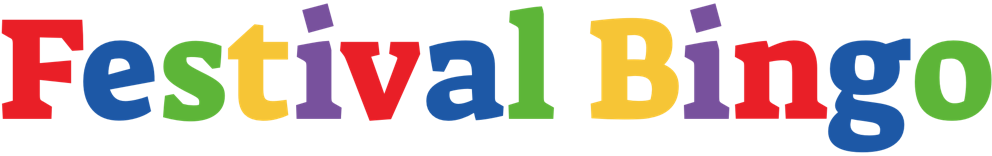
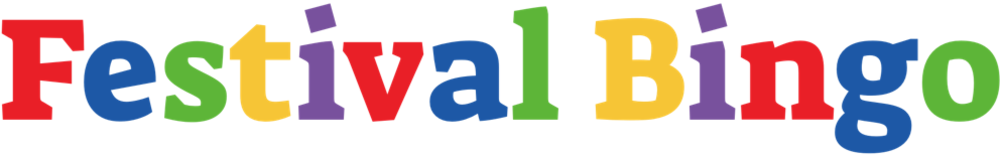
Resized headers and added progression dialog

diff --git a/src/components/bingo/BingoProgressDialog.vue b/src/components/bingo/BingoProgressDialog.vue
@@ -1,0 +1,47 @@
+<template>
+    <BaseModal :font="getTheme.fontFamily" :show="open" @close="handleClose">
+        <template v-slot:header>
+            <div class="w-80 flex justify-between">
+                <h2 class="w-[300px]">Behaalde Resultaten</h2>
+                <button @click="handleClose">
+                    <i class="fas fa-xmark"></i>
+                </button>
+            </div>
+        </template>
+        <template v-slot:body>
+            <h3>Voortgang</h3>
+            <div class="w-full bg-gray-200 rounded-full h-2.5">
+                <div class="h-2.5 rounded-full" :style="{ background: getTheme.colors[0], width: `${progress.percentage}%` } "></div>
+            </div>
+            <p>{{ progress.checked }} / {{ progress.total }} afgevinkt</p>
+        </template>
+    </BaseModal>
+</template>
+
+<script setup lang="ts">
+import { storeToRefs } from 'pinia';
+import { computed } from 'vue';
+import { useBingoCardsStore } from '../../stores/useBingoCardStore';
+import { useSettingsStore } from '../../stores/useSettingsStore';
+import BaseModal from '../modals/BaseModal.vue';
+defineProps<{ open: boolean }>()
+
+
+const emit = defineEmits(['close'])
+const { getTheme } = storeToRefs(useSettingsStore());
+const { getCards } = storeToRefs(useBingoCardsStore());
+
+const progress = computed(() => {
+    const numberChecked = getCards.value.filter(card => card.checked === true).length
+    const total = getCards.value.length
+    return {
+        checked: numberChecked,
+        total: total,
+        percentage: numberChecked / total * 100
+    }
+})
+
+const handleClose = () => {
+    emit('close');
+}
+</script>

diff --git a/src/components/bingo/BingoGame.vue b/src/components/bingo/BingoGame.vue
@@ -10,6 +10,9 @@
           <Dropdown :items="inputOptions" :selectedItem="selectedInput" :onOptionClicked="handleInputSelect"/>
         </div>
         <div class="flex">
+          <button class="border-2 bg-white px-2 py-1 w-9 h-9 rounded-lg" @click="isProgressModalOpen = true">
+            <i class="fas fa-trophy"></i>
+          </button>
           <button class="border-2 bg-white px-2 py-1 w-9 h-9 rounded-lg" @click="isSharingModalOpen = true">
             <i class="fas fa-share-nodes"></i>
           </button>
@@ -33,6 +36,11 @@
         :card="selectedCard!"
         @close="isOptionModalOpen = false"
       ></BingoOptionDialog>
+      <BingoProgressDialog
+        :open="isProgressModalOpen" 
+        :card="selectedCard!"
+        @close="isProgressModalOpen = false"
+      ></BingoProgressDialog>
       <BingoSharingDialog
         :open="isSharingModalOpen"
         @close="isSharingModalOpen = false"
@@ -55,11 +63,13 @@
   import { storeToRefs } from 'pinia';
   import Dropdown from '../dropdown/Dropdown.vue';
   import { useSettingsStore } from '../../stores/useSettingsStore';
+import BingoProgressDialog from './BingoProgressDialog.vue';
 
   const { getCards } = storeToRefs(useBingoCardsStore());
   const { getGrid } = storeToRefs(useSettingsStore());
   const selectedCard = ref<BingoCard | null>(null);
   const isOptionModalOpen = ref(false);
+  const isProgressModalOpen = ref(false);
   const isSharingModalOpen = ref(false);
   const isSettingsModalOpen = ref(false);
 

diff --git a/src/App.vue b/src/App.vue
@@ -3,8 +3,8 @@
     <component :is="getTheme.background" class="w-[80vw] h-[80%]"></component>
   </div>
   <div class="relative" :style="{ fontFamily: getTheme.fontFamily }">
-    <header class="p-2 flex justify-center">
-        <img class="max-h-24 md:max-h-32 lg:max-h-40" alt="header-image" :src="getTheme.header"/>
+    <header class="p-2 h-24 md:h-32 lg:h-52 container mx-auto flex justify-center">
+        <img class="max-h-24 md:max-h-32 lg:max-h-52" alt="header-image" :src="getTheme.header"/>
     </header>
     <BingoGame/>
   </div>

diff --git a/src/main.ts b/src/main.ts
@@ -21,6 +21,7 @@ import {
     fa2,
     fa3,
     fa4,
+    faTrophy,
 } from '@fortawesome/free-solid-svg-icons';
 import {
     faWhatsapp,
@@ -45,7 +46,8 @@ library.add({
     faClipboard,
     fa2,
     fa3,
-    fa4
+    fa4,
+    faTrophy,
 });
 
 import { dom } from "@fortawesome/fontawesome-svg-core";
